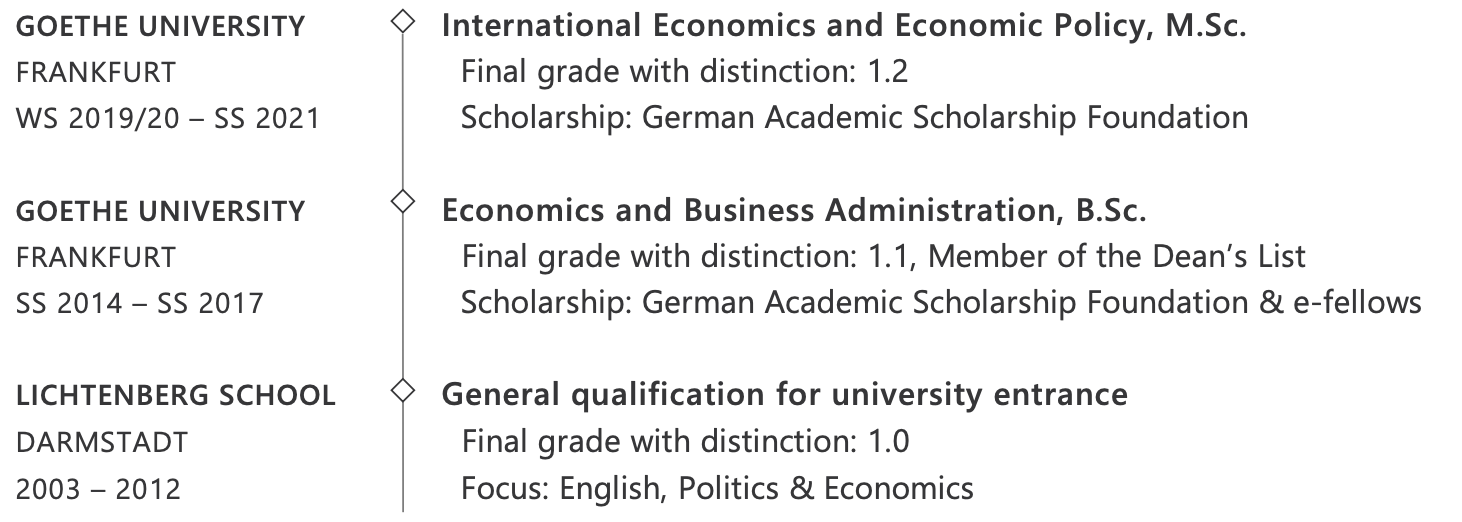
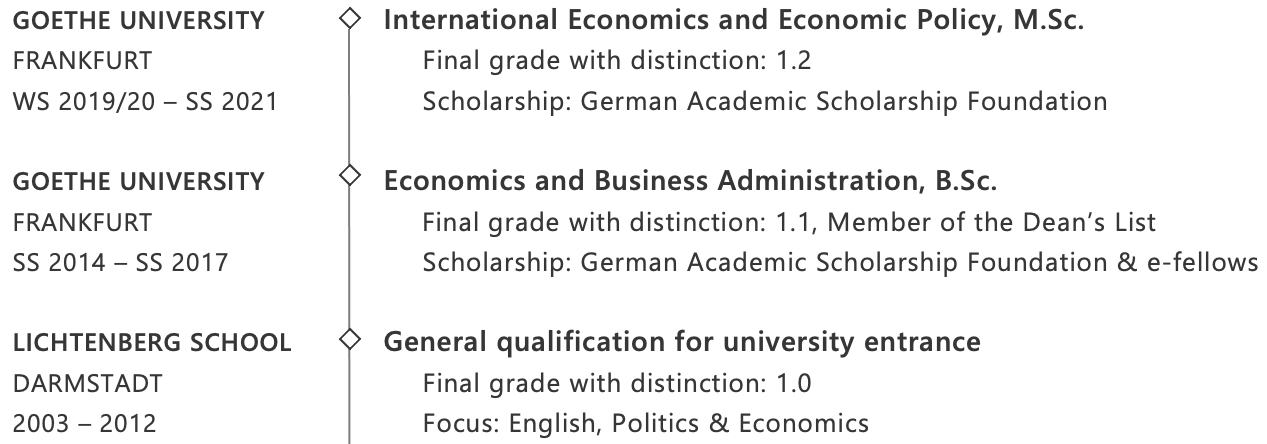
Broken image

diff --git a/cv.html b/cv.html
@@ -78,10 +78,11 @@
 <li class="chapter" data-level="3.1" data-path="cv.html"><a href="cv.html#professional-experience"><i class="fa fa-check"></i><b>3.1</b> Professional Experience</a></li>
 <li class="chapter" data-level="3.2" data-path="cv.html"><a href="cv.html#education"><i class="fa fa-check"></i><b>3.2</b> Education</a></li>
 <li class="chapter" data-level="3.3" data-path="cv.html"><a href="cv.html#international-experience"><i class="fa fa-check"></i><b>3.3</b> International Experience</a></li>
-<li class="chapter" data-level="3.4" data-path="cv.html"><a href="cv.html#skills"><i class="fa fa-check"></i><b>3.4</b> Skills</a>
+<li class="chapter" data-level="3.4" data-path="cv.html"><a href="cv.html#voluntary-work"><i class="fa fa-check"></i><b>3.4</b> Voluntary Work</a></li>
+<li class="chapter" data-level="3.5" data-path="cv.html"><a href="cv.html#skills"><i class="fa fa-check"></i><b>3.5</b> Skills</a>
 <ul>
-<li class="chapter" data-level="3.4.1" data-path="cv.html"><a href="cv.html#it-skills"><i class="fa fa-check"></i><b>3.4.1</b> IT Skills</a></li>
-<li class="chapter" data-level="3.4.2" data-path="cv.html"><a href="cv.html#languages"><i class="fa fa-check"></i><b>3.4.2</b> Languages</a></li>
+<li class="chapter" data-level="3.5.1" data-path="cv.html"><a href="cv.html#it-skills"><i class="fa fa-check"></i><b>3.5.1</b> IT Skills</a></li>
+<li class="chapter" data-level="3.5.2" data-path="cv.html"><a href="cv.html#languages"><i class="fa fa-check"></i><b>3.5.2</b> Languages</a></li>
 </ul></li>
 </ul></li>
 <li class="chapter" data-level="4" data-path="info.html"><a href="info.html"><i class="fa fa-check"></i><b>4</b> Info</a></li>
@@ -122,16 +123,20 @@
 </div>
 <div id="international-experience" class="section level2" number="3.3">
 <h2><span class="header-section-number">3.3</span> International Experience</h2>
-<p><img src="_bookdown_files/International.png" style="width:80.0%" /></p>
+<p><img src="_bookdown_files/International.png" style="width:76.0%" /></p>
 </div>
-<div id="skills" class="section level2" number="3.4">
-<h2><span class="header-section-number">3.4</span> Skills</h2>
-<div id="it-skills" class="section level3" number="3.4.1">
-<h3><span class="header-section-number">3.4.1</span> IT Skills</h3>
+<div id="voluntary-work" class="section level2" number="3.4">
+<h2><span class="header-section-number">3.4</span> Voluntary Work</h2>
+<p><img src="_bookdown_files/Volunteer.png" style="width:76.0%" /></p>
+</div>
+<div id="skills" class="section level2" number="3.5">
+<h2><span class="header-section-number">3.5</span> Skills</h2>
+<div id="it-skills" class="section level3" number="3.5.1">
+<h3><span class="header-section-number">3.5.1</span> IT Skills</h3>
 <p><img src="application_bookdown_files/figure-html/unnamed-chunk-1-1.png" width="480" /></p>
 </div>
-<div id="languages" class="section level3" number="3.4.2">
-<h3><span class="header-section-number">3.4.2</span> Languages</h3>
+<div id="languages" class="section level3" number="3.5.2">
+<h3><span class="header-section-number">3.5.2</span> Languages</h3>
 <p><img src="application_bookdown_files/figure-html/unnamed-chunk-2-1.png" width="480" /></p>
 
 </div>

diff --git a/certificates.html b/certificates.html
@@ -78,10 +78,11 @@
 <li class="chapter" data-level="3.1" data-path="cv.html"><a href="cv.html#professional-experience"><i class="fa fa-check"></i><b>3.1</b> Professional Experience</a></li>
 <li class="chapter" data-level="3.2" data-path="cv.html"><a href="cv.html#education"><i class="fa fa-check"></i><b>3.2</b> Education</a></li>
 <li class="chapter" data-level="3.3" data-path="cv.html"><a href="cv.html#international-experience"><i class="fa fa-check"></i><b>3.3</b> International Experience</a></li>
-<li class="chapter" data-level="3.4" data-path="cv.html"><a href="cv.html#skills"><i class="fa fa-check"></i><b>3.4</b> Skills</a>
+<li class="chapter" data-level="3.4" data-path="cv.html"><a href="cv.html#voluntary-work"><i class="fa fa-check"></i><b>3.4</b> Voluntary Work</a></li>
+<li class="chapter" data-level="3.5" data-path="cv.html"><a href="cv.html#skills"><i class="fa fa-check"></i><b>3.5</b> Skills</a>
 <ul>
-<li class="chapter" data-level="3.4.1" data-path="cv.html"><a href="cv.html#it-skills"><i class="fa fa-check"></i><b>3.4.1</b> IT Skills</a></li>
-<li class="chapter" data-level="3.4.2" data-path="cv.html"><a href="cv.html#languages"><i class="fa fa-check"></i><b>3.4.2</b> Languages</a></li>
+<li class="chapter" data-level="3.5.1" data-path="cv.html"><a href="cv.html#it-skills"><i class="fa fa-check"></i><b>3.5.1</b> IT Skills</a></li>
+<li class="chapter" data-level="3.5.2" data-path="cv.html"><a href="cv.html#languages"><i class="fa fa-check"></i><b>3.5.2</b> Languages</a></li>
 </ul></li>
 </ul></li>
 <li class="chapter" data-level="4" data-path="info.html"><a href="info.html"><i class="fa fa-check"></i><b>4</b> Info</a></li>
@@ -114,7 +115,7 @@
 <h1><span class="header-section-number">5</span> Certificates</h1>
 <div id="work" class="section level2" number="5.1">
 <h2><span class="header-section-number">5.1</span> Work</h2>
-<p>If you are interested in what previous employers had to say about me, please have a look at the following certificates:</p>
+<p>If you are interested in what previous employers had to say about me, please have a look at the following <strong>work certificates</strong>:</p>
 <object data="https://laramz.github.io/Application/Work_Certificates.pdf" type="application/pdf" width="800px" height="700px">
 <embed src="https://laramz.github.io/Application/Work_Certificates.pdf">
 <p>
@@ -125,6 +126,7 @@ This browser does not support PDFs. Please download the <strong>Work Certificate
 </div>
 <div id="education-1" class="section level2" number="5.2">
 <h2><span class="header-section-number">5.2</span> Education</h2>
+<p>If you are interested in my performance in school and at university, please have a look at these <strong>education certificates</strong>:</p>
 <object data="https://laramz.github.io/Application/Education_Certificates.pdf" type="application/pdf" width="800px" height="700px">
 <embed src="https://laramz.github.io/Application/Education_Certificates.pdf">
 <p>

diff --git a/index.html b/index.html
@@ -78,10 +78,11 @@
 <li class="chapter" data-level="3.1" data-path="cv.html"><a href="cv.html#professional-experience"><i class="fa fa-check"></i><b>3.1</b> Professional Experience</a></li>
 <li class="chapter" data-level="3.2" data-path="cv.html"><a href="cv.html#education"><i class="fa fa-check"></i><b>3.2</b> Education</a></li>
 <li class="chapter" data-level="3.3" data-path="cv.html"><a href="cv.html#international-experience"><i class="fa fa-check"></i><b>3.3</b> International Experience</a></li>
-<li class="chapter" data-level="3.4" data-path="cv.html"><a href="cv.html#skills"><i class="fa fa-check"></i><b>3.4</b> Skills</a>
+<li class="chapter" data-level="3.4" data-path="cv.html"><a href="cv.html#voluntary-work"><i class="fa fa-check"></i><b>3.4</b> Voluntary Work</a></li>
+<li class="chapter" data-level="3.5" data-path="cv.html"><a href="cv.html#skills"><i class="fa fa-check"></i><b>3.5</b> Skills</a>
 <ul>
-<li class="chapter" data-level="3.4.1" data-path="cv.html"><a href="cv.html#it-skills"><i class="fa fa-check"></i><b>3.4.1</b> IT Skills</a></li>
-<li class="chapter" data-level="3.4.2" data-path="cv.html"><a href="cv.html#languages"><i class="fa fa-check"></i><b>3.4.2</b> Languages</a></li>
+<li class="chapter" data-level="3.5.1" data-path="cv.html"><a href="cv.html#it-skills"><i class="fa fa-check"></i><b>3.5.1</b> IT Skills</a></li>
+<li class="chapter" data-level="3.5.2" data-path="cv.html"><a href="cv.html#languages"><i class="fa fa-check"></i><b>3.5.2</b> Languages</a></li>
 </ul></li>
 </ul></li>
 <li class="chapter" data-level="4" data-path="info.html"><a href="info.html"><i class="fa fa-check"></i><b>4</b> Info</a></li>

diff --git a/info.html b/info.html
@@ -78,10 +78,11 @@
 <li class="chapter" data-level="3.1" data-path="cv.html"><a href="cv.html#professional-experience"><i class="fa fa-check"></i><b>3.1</b> Professional Experience</a></li>
 <li class="chapter" data-level="3.2" data-path="cv.html"><a href="cv.html#education"><i class="fa fa-check"></i><b>3.2</b> Education</a></li>
 <li class="chapter" data-level="3.3" data-path="cv.html"><a href="cv.html#international-experience"><i class="fa fa-check"></i><b>3.3</b> International Experience</a></li>
-<li class="chapter" data-level="3.4" data-path="cv.html"><a href="cv.html#skills"><i class="fa fa-check"></i><b>3.4</b> Skills</a>
+<li class="chapter" data-level="3.4" data-path="cv.html"><a href="cv.html#voluntary-work"><i class="fa fa-check"></i><b>3.4</b> Voluntary Work</a></li>
+<li class="chapter" data-level="3.5" data-path="cv.html"><a href="cv.html#skills"><i class="fa fa-check"></i><b>3.5</b> Skills</a>
 <ul>
-<li class="chapter" data-level="3.4.1" data-path="cv.html"><a href="cv.html#it-skills"><i class="fa fa-check"></i><b>3.4.1</b> IT Skills</a></li>
-<li class="chapter" data-level="3.4.2" data-path="cv.html"><a href="cv.html#languages"><i class="fa fa-check"></i><b>3.4.2</b> Languages</a></li>
+<li class="chapter" data-level="3.5.1" data-path="cv.html"><a href="cv.html#it-skills"><i class="fa fa-check"></i><b>3.5.1</b> IT Skills</a></li>
+<li class="chapter" data-level="3.5.2" data-path="cv.html"><a href="cv.html#languages"><i class="fa fa-check"></i><b>3.5.2</b> Languages</a></li>
 </ul></li>
 </ul></li>
 <li class="chapter" data-level="4" data-path="info.html"><a href="info.html"><i class="fa fa-check"></i><b>4</b> Info</a></li>

diff --git a/motivation.html b/motivation.html
@@ -78,10 +78,11 @@
 <li class="chapter" data-level="3.1" data-path="cv.html"><a href="cv.html#professional-experience"><i class="fa fa-check"></i><b>3.1</b> Professional Experience</a></li>
 <li class="chapter" data-level="3.2" data-path="cv.html"><a href="cv.html#education"><i class="fa fa-check"></i><b>3.2</b> Education</a></li>
 <li class="chapter" data-level="3.3" data-path="cv.html"><a href="cv.html#international-experience"><i class="fa fa-check"></i><b>3.3</b> International Experience</a></li>
-<li class="chapter" data-level="3.4" data-path="cv.html"><a href="cv.html#skills"><i class="fa fa-check"></i><b>3.4</b> Skills</a>
+<li class="chapter" data-level="3.4" data-path="cv.html"><a href="cv.html#voluntary-work"><i class="fa fa-check"></i><b>3.4</b> Voluntary Work</a></li>
+<li class="chapter" data-level="3.5" data-path="cv.html"><a href="cv.html#skills"><i class="fa fa-check"></i><b>3.5</b> Skills</a>
 <ul>
-<li class="chapter" data-level="3.4.1" data-path="cv.html"><a href="cv.html#it-skills"><i class="fa fa-check"></i><b>3.4.1</b> IT Skills</a></li>
-<li class="chapter" data-level="3.4.2" data-path="cv.html"><a href="cv.html#languages"><i class="fa fa-check"></i><b>3.4.2</b> Languages</a></li>
+<li class="chapter" data-level="3.5.1" data-path="cv.html"><a href="cv.html#it-skills"><i class="fa fa-check"></i><b>3.5.1</b> IT Skills</a></li>
+<li class="chapter" data-level="3.5.2" data-path="cv.html"><a href="cv.html#languages"><i class="fa fa-check"></i><b>3.5.2</b> Languages</a></li>
 </ul></li>
 </ul></li>
 <li class="chapter" data-level="4" data-path="info.html"><a href="info.html"><i class="fa fa-check"></i><b>4</b> Info</a></li>
